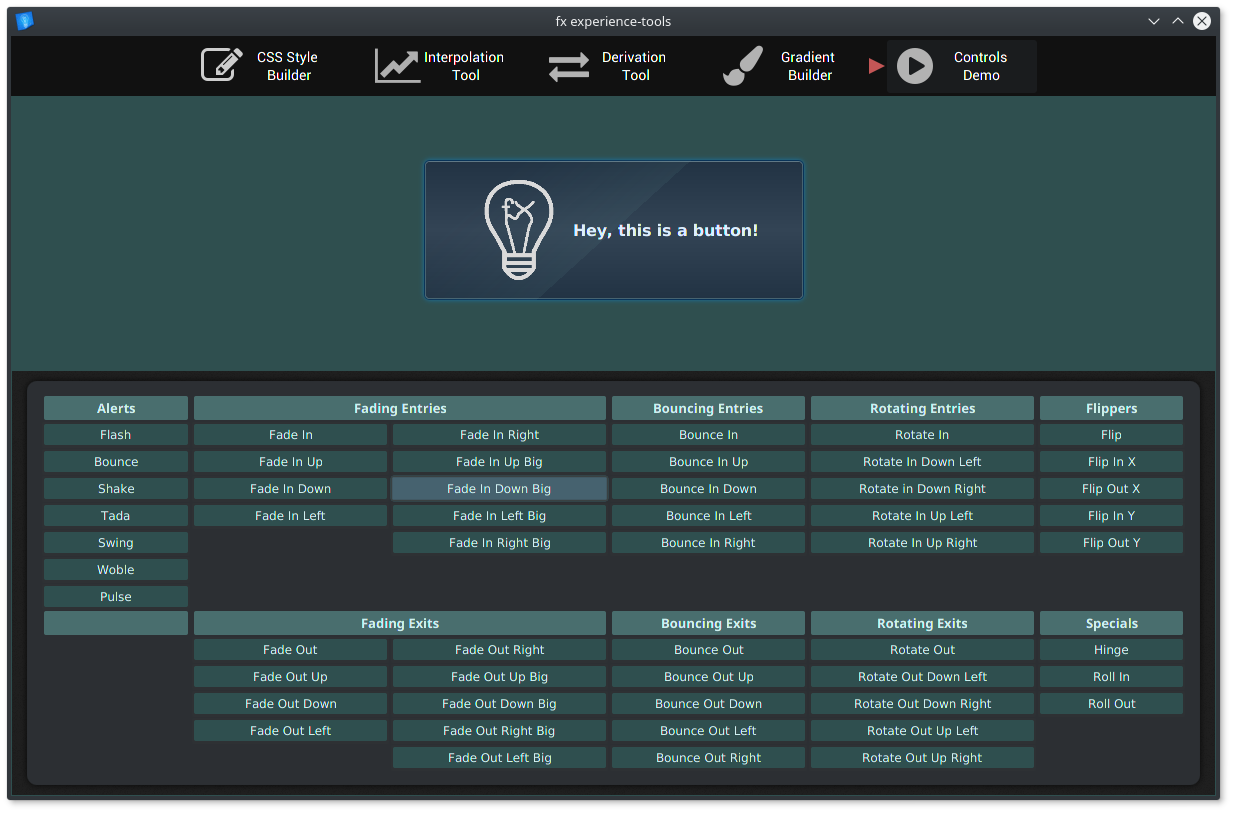
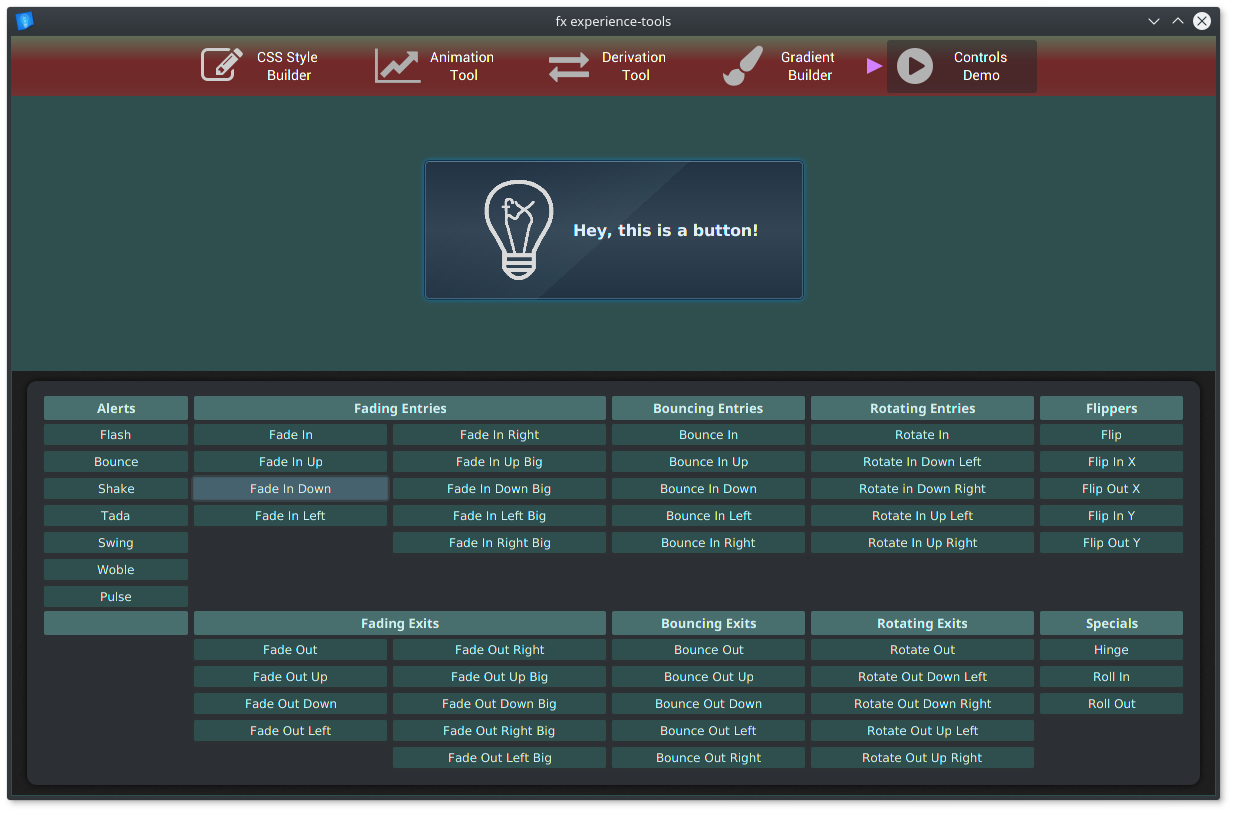
theme update

Changed region(s): [[0.0, 0.0308, 0.9862, 0.123], [0.1541, 0.5843, 0.4931, 0.615]]

diff --git a/FXExperienceTools/src/main/resources/styles/style_panel_dark.css b/FXExperienceTools/src/main/resources/styles/style_panel_dark.css
@@ -41,7 +41,7 @@
 }
 
 .button-hbox {
-    -fx-background-color: linear-gradient(from 100.0% 0.0% to 100.0% 99.0% , #606c57 0.0% , #606c57 1.0% , #732929 43.0% , #702a2a 82.0% , #723232 100.0% );
+    -fx-background-color: -fe-inner-background;
         /*linear-gradient(to bottom,*/
             /*derive(-fe-inner-background,-3%),*/
             /*derive(-fe-inner-background, 0%) 50%,*/
@@ -71,20 +71,21 @@
 }
 
 .style-button {
-    -fx-font-size: .825em;
     -fx-background-color: transparent;
-    -fx-border-color: lightgrey;
-    -fx-pref-width: 35px;
-    -fx-pref-height: 35px;
-    -fx-border-radius: 5;
-    -fx-text-fill: #E7E7E7;
+    -fx-border-color: #C2C2C3;
+    -fx-pref-width: 28px;
+    -fx-pref-height: 28px;
+    -fx-background-insets: -0.2, 1, 2;
+    -fx-background-radius: 3.2, 2, 2;
+    -fx-border-radius: 2.2, 2, 2;
+    -fx-text-fill: #f1f1f1;
 }
 
 .style-button:focused {
     /*-fx-background-color: -fe-focus-background;*/
-    -fx-border-color: lightseagreen;
-    -fx-max-width: 35px;
-    -fx-max-height: 35px;
+    -fx-border-color: lightslategray;
+    -fx-max-width: 28px;
+    -fx-max-height: 28px;
     -fx-text-fill: #E7E7E7;
 }
 
@@ -109,6 +110,7 @@
     -fx-background-color: -gray-darker;
     -fx-border-color: -fe-border;
     -fx-font-size: 0.875em;
+    -fx-pref-width: 198px;
 }
 
 .custom-menu-item:focused,

diff --git a/FXExperienceTools/src/main/resources/styles/main_dark.css b/FXExperienceTools/src/main/resources/styles/main_dark.css
@@ -45,7 +45,7 @@ different terms and without source code for the larger work.
     /*-fx-background-insets: 1, -5, 1, -5;*/
     /*-fx-background-radius: 9;*/
 }
-#Main-Panel {
+.root-controller-panel {
     -fx-background-image: url("../images/bg.png")
 }
 
@@ -63,7 +63,8 @@ different terms and without source code for the larger work.
 .main-menu {
     /*    -fx-background-color:  derive(rgb(147, 147, 147), -60%);*/
     /*-fx-background-color: derive(-dark-header, 0%), derive(-dark-header, 25%),  derive(-dark-header, -20%),  -dark-header;*/
--fx-background-color: derive(#23272a, -18%);
+-fx-background-color: linear-gradient(from 100.0% 0.0% to 100.0% 99.0% , #606c57 0.0% , #606c57 1.0% , #732929 43.0% , #702a2a 82.0% , #723232 100.0% );
+    /*linear-gradient(to bottom,*/
     -fx-padding: 0.0em 0.666667em 0.0em 0.666667em; /* 0 8 0 8 */
     /*-fx-effect: dropshadow( two-pass-box, -gray-light, 2, 0.0, 0, 1 );*/
     -fx-background-insets: 0 0 0 0, 0 1 0 1;

diff --git a/FXExperienceTools/src/main/java/com/fxexperience/tools/controller/MainController.java b/FXExperienceTools/src/main/java/com/fxexperience/tools/controller/MainController.java
@@ -84,10 +84,7 @@ public final class MainController extends AbstractController implements Initiali
 
         initializeTools();
         initializeToggles();
-
-        arrowPane.setManaged(false);
-        arrowPane.setLayoutY(30);
-        arrowPane.layoutXProperty().bind(styleToggle.layoutXProperty().subtract(10));
+        initializeLayout();
     }
 
     // Creates toggle group to bind color icon effect
@@ -218,8 +215,14 @@ public final class MainController extends AbstractController implements Initiali
         }
     };
 
+    private void initializeLayout() {
+        arrowPane.setManaged(false);
+        arrowPane.setLayoutY(30);
+        setArrowPane(styleToggle);
+    }
+
     private void setArrowPane(Node toggleButton) {
-        arrowPane.layoutXProperty().bind(toggleButton.layoutXProperty().subtract(10));
+        arrowPane.layoutXProperty().bind(toggleButton.layoutXProperty().subtract(12));
     }
 
     private void displayStatusAlert(String textMessage) {
